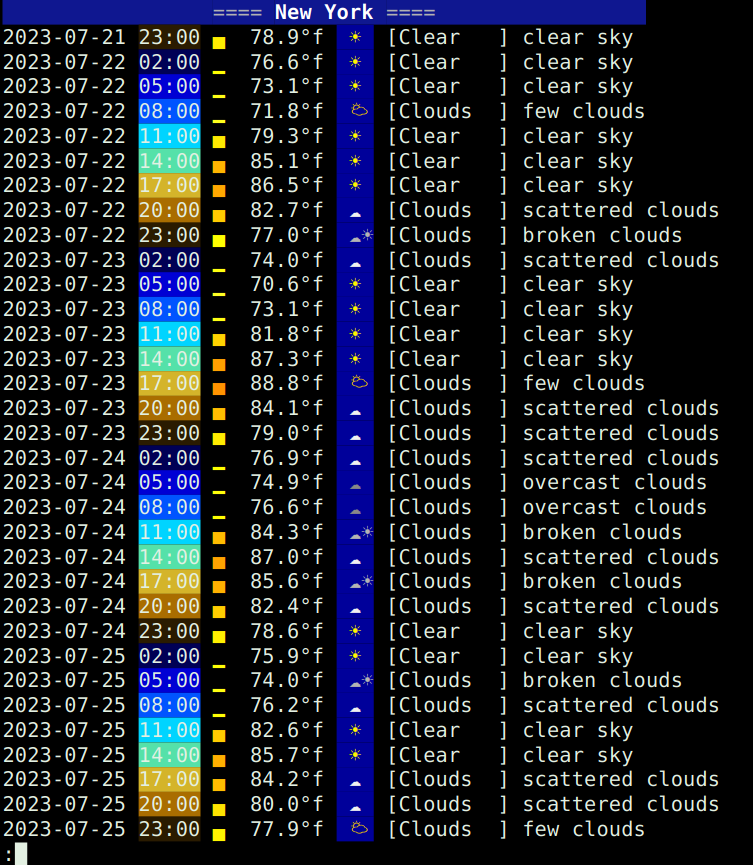
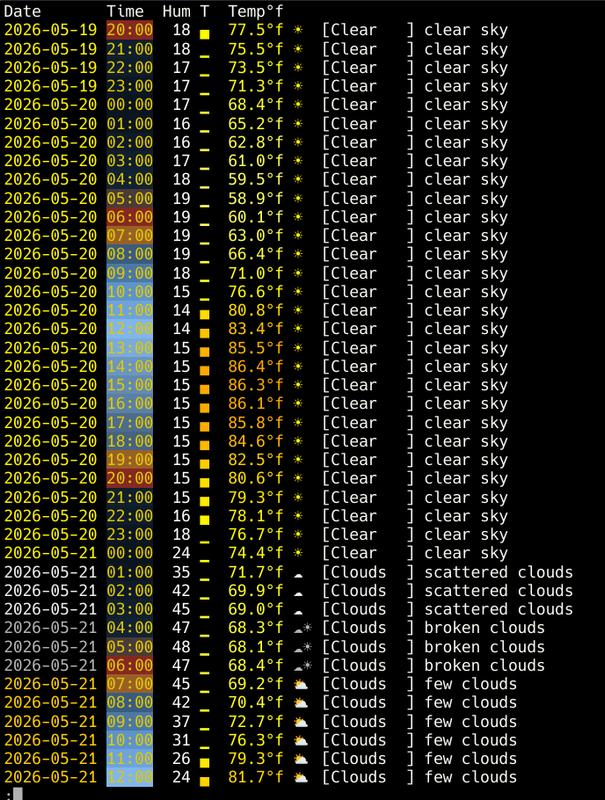
updated screenshot to show the "long-path" for the transition from blue to red (so you don't get green). That was a pain.

diff --git a/README.md b/README.md
@@ -1,6 +1,9 @@
 ## Weather shell utils
 
-![Screenshot](i/screenshot.png "Screenshot")
+<div align="center">
+  <em>Nearing Summer in Paris...</em><br>
+  <img src="i/screenshot.png" alt="Screenshot of terminal"><br>
+</div>
 
 ## Installation
 1. Clone me!
